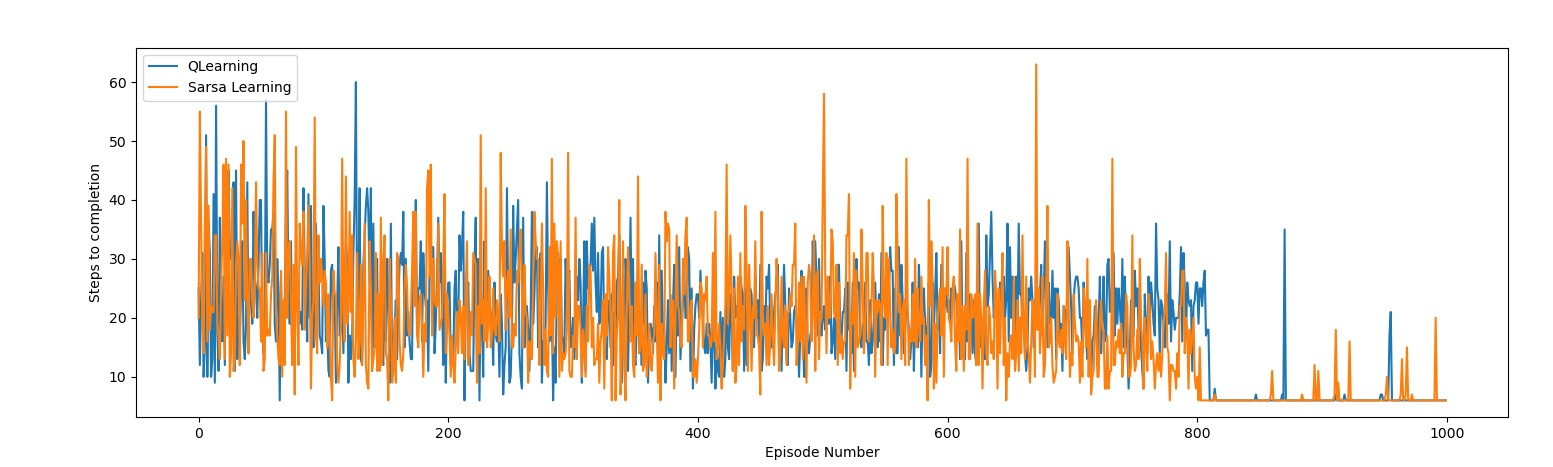
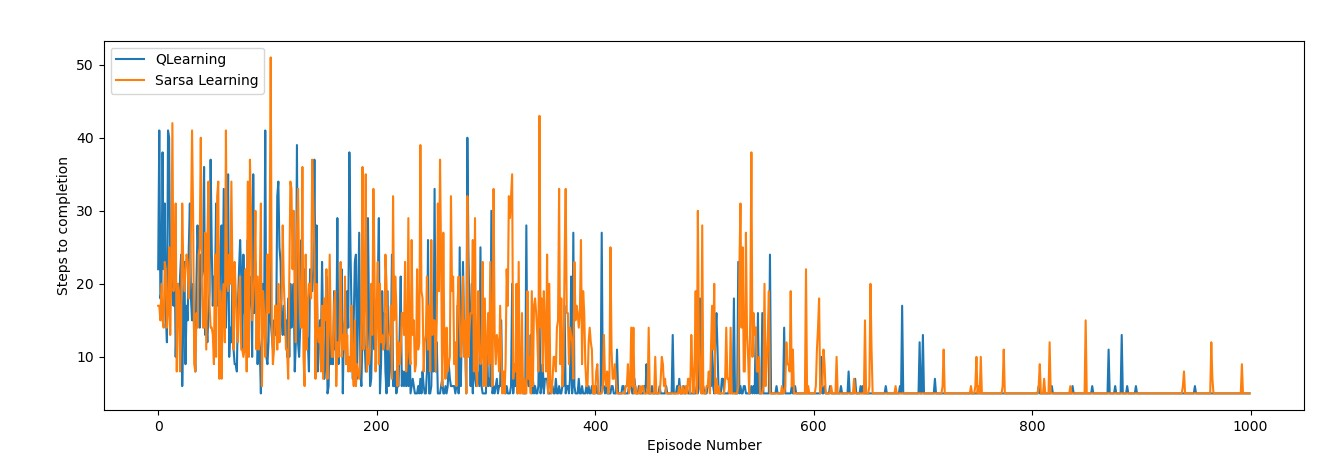
new layout graphs

diff --git a/Trabalho 2/FoldingBlocks.py b/Trabalho 2/FoldingBlocks.py
@@ -106,7 +106,7 @@ def qLearning(env, qtable, eps, eps_min, eps_decay, episodes, steps, lr, gamma):
 
 env = gym.make("fb-v1")  # Create environment
 env.render()
-qtable = np.zeros((2000, env.action_space.n))  # Generate new QTable
+qtable = np.zeros((5000, env.action_space.n))  # Generate new QTable
 stepStatsQ, rewardStatsQ, winCountQ = qLearning(
     env, qtable, 1.0, 0.005, 0.995, 1000, 100, 0.65, 0.65)
 env.close()
@@ -126,6 +126,6 @@ env.close()
 #plt.ylabel('Sucessful Episodes in 1000 attempts')
 # plt.show()
 
-plot("Episode Number", "Steps to completion", stepStatsQ, stepStatsS)
+plot("Episode Number", "Total reward", rewardStatsQ, rewardStatsS)
 plt.legend(["QLearning", "Sarsa Learning"], loc="upper left")
 plt.show()

diff --git a/Trabalho 2/env/gym-fb/gym_fb/envs/fb_env.py b/Trabalho 2/env/gym-fb/gym_fb/envs/fb_env.py
@@ -12,6 +12,15 @@ boardLayout1 = [
 ]
 
 boardLayout2 = [
+    [4, 4, 1, 1],
+    [1, 1, 1, 1],
+    [1, 1, 2, 2],
+    [1, 1, 1, 1],
+    [1, 1, 1, 1],
+    [1, 1, 3, 3]
+]
+
+boardLayout3 = [
     [1, 1, 4, 0, 0],
     [1, 1, 4, 0, 0],
     [1, 1, 4, 0, 0],
@@ -20,16 +29,6 @@ boardLayout2 = [
     [1, 1, 1, 0, 0],
     [1, 1, 1, 1, 1],
     [2, 1, 1, 1, 5]
-]
-
-boardLayout3 = [
-    [0, 2, 0, 0, 0, 0],
-    [2, 1, 1, 1, 1, 0],
-    [1, 1, 3, 1, 1, 0],
-    [4, 1, 1, 1, 5, 0],
-    [1, 1, 6, 1, 5, 5],
-    [1, 1, 1, 5, 5, 5],
-    [1, 7, 1, 1, 0, 0]
 ]
 
 
